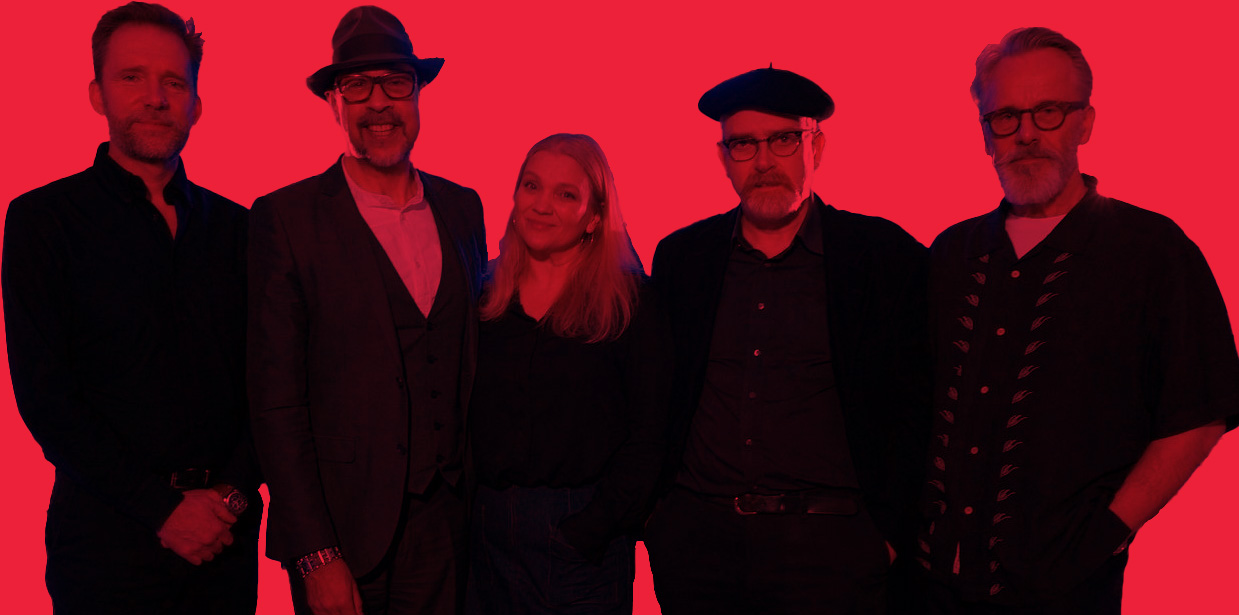
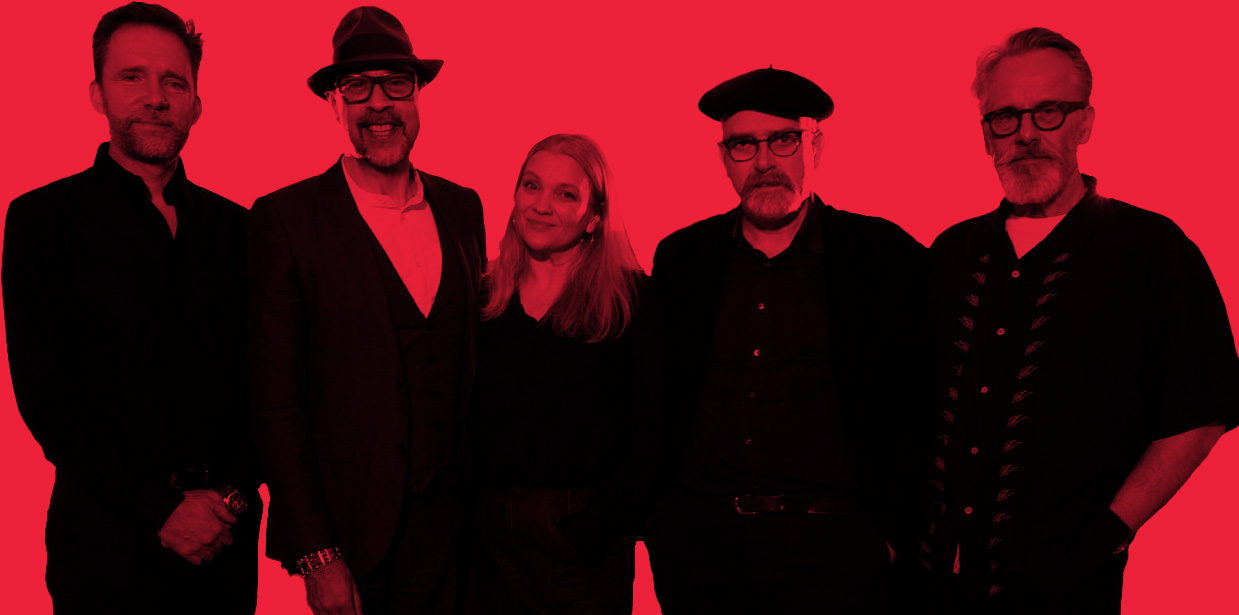
Header section

diff --git a/src/assets/styles/_layouts.scss b/src/assets/styles/_layouts.scss
@@ -96,13 +96,16 @@ html {
   place-items: center;
   background-color: $clr-primary-500;
   padding: 2rem;
-  min-height: 33vh;
+  min-height: 100dvh;
   > * { grid-area: stack; }
   .logo {
     opacity: .125;
   }
   .boilerplate {
+    position: relative;
+    z-index: 5;
     display: grid;
+    transform: translateY(-25vh);
     grid-template-columns: 1fr;
     h1 {
       font-size: clamp(1.75rem, 5vw + .5rem, 5rem);
@@ -130,13 +133,15 @@ html {
   }
 
 }
-.full-width-image {
+
 
   img {
-    width: 100%;
+    position: absolute;
+    bottom: 0;
+    max-width: 100%;
     object-fit: cover;
   }
-}
+
 .content-section {
   position: relative;
   display: grid;

diff --git a/src/assets/scripts/index.js b/src/assets/scripts/index.js
@@ -1,10 +1,10 @@
 
 import scroll from './scroll';
-import glightbox from './glightbox';
+// import glightbox from './glightbox';
 import animations from "./animations";
 
 scroll();
-glightbox();
+//glightbox();
 animations();
 
 /**
